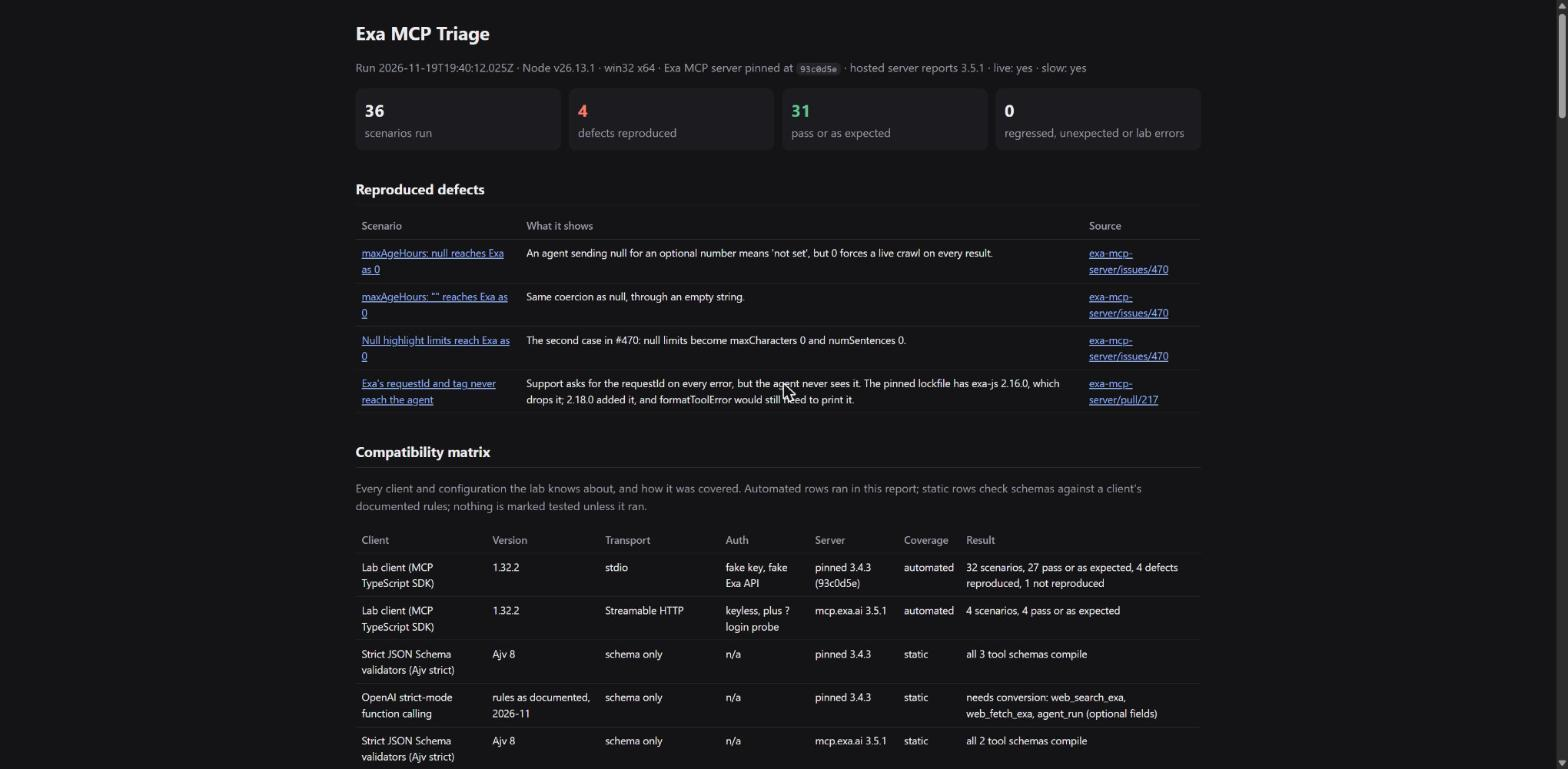
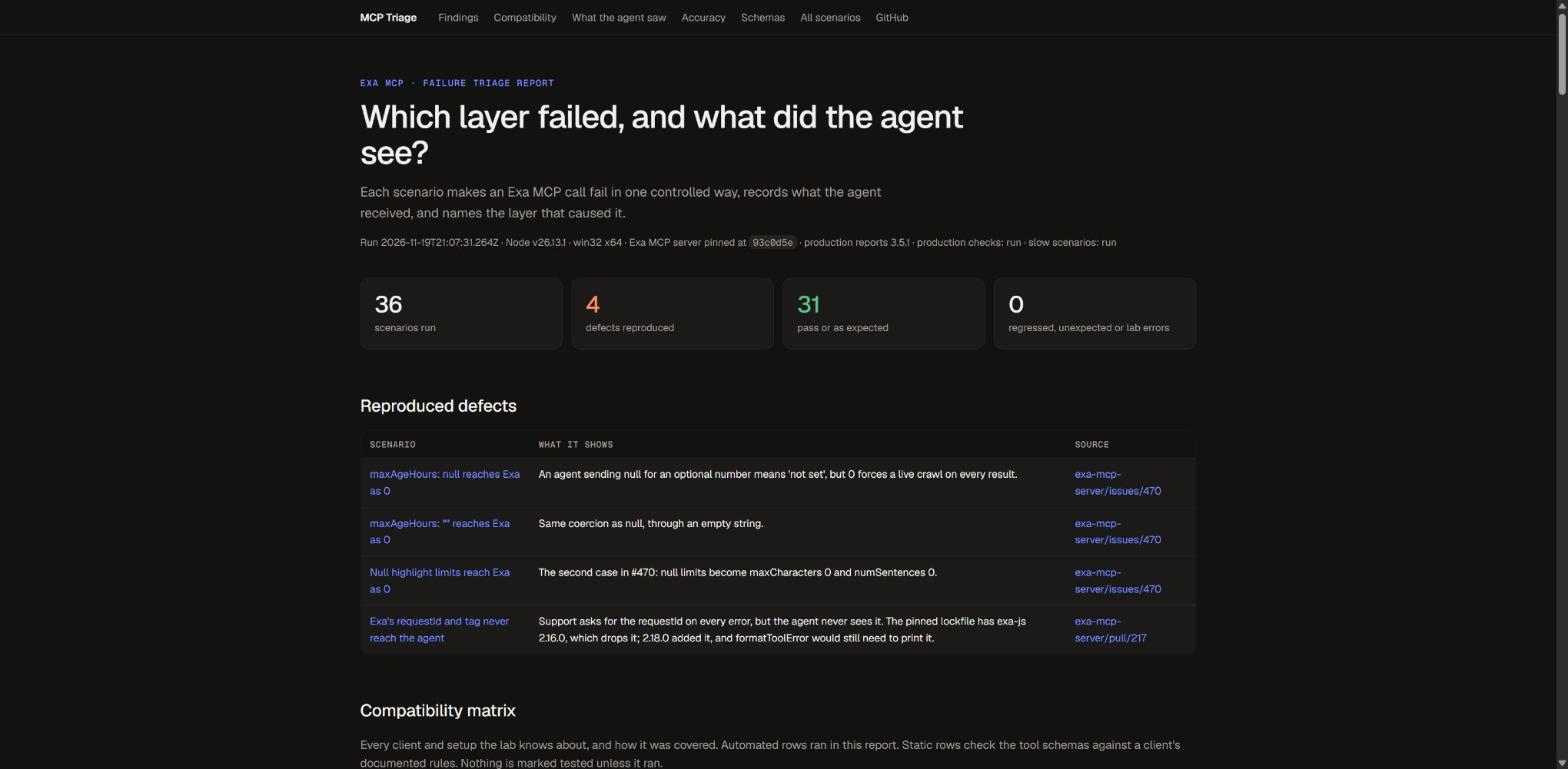
Restyle the report and publish it to GitHub Pages
Warm palette and Geist fonts in the style of exa.ai, a section nav, a clear independent-project note, and a CI job that deploys the offline report to GitHub Pages on every push to master.

diff --git a/src/report.ts b/src/report.ts
@@ -8,10 +8,24 @@ export function renderHtml(run: LabRun): string {
   return `<!doctype html>
 <html lang="en"><head><meta charset="utf-8"><meta name="viewport" content="width=device-width,initial-scale=1">
 <title>Exa MCP Triage report</title>
-<style>${STYLE}</style></head><body><main>
+<link rel="preconnect" href="https://fonts.googleapis.com"><link rel="preconnect" href="https://fonts.gstatic.com" crossorigin>
+<link href="https://fonts.googleapis.com/css2?family=Geist:wght@400;500;600&family=Geist+Mono:wght@400;500&display=swap" rel="stylesheet">
+<style>${STYLE}</style></head><body>
+<nav class="top"><div class="inner"><span class="brand">MCP Triage</span>${NAV.map(([id, label]) => `<a href="#${id}">${label}</a>`).join("")}<a href="https://github.com/NishthaNabya/exa-mcp-triage">GitHub</a></div></nav>
+<main>
 ${body}
+<footer>An independent project by Nishtha Nabya. Not affiliated with or endorsed by Exa. It tests Exa's open-source MCP server, pinned at a public commit.</footer>
 </main></body></html>`;
 }
+
+const NAV = [
+  ["defects", "Findings"],
+  ["matrix", "Compatibility"],
+  ["agent-saw", "What the agent saw"],
+  ["evaluation", "Accuracy"],
+  ["schemas", "Schemas"],
+  ["scenarios", "All scenarios"],
+];
 
 // ---- sections ----
 
@@ -20,8 +34,12 @@ function header(run: LabRun) {
   const m = run.meta;
   const surprises = r.filter(isSurprise).length;
   const reproduced = r.filter((x) => x.verdict === "reproduced").length;
-  return `<h1>Exa MCP Triage</h1>
-<p class="muted">Run ${esc(m.startedAt)} &middot; Node ${esc(m.node)} &middot; ${esc(m.platform)} &middot; Exa MCP server pinned at <code>${esc(m.pinnedCommit.slice(0, 7))}</code>${run.drift?.hostedVersion ? ` &middot; hosted server reports ${esc(run.drift.hostedVersion)}` : ""} &middot; live: ${m.options.live ? "yes" : "no"} &middot; slow: ${m.options.slow ? "yes" : "no"}</p>
+  return `<header class="hero">
+<p class="eyebrow">Exa MCP · failure triage report</p>
+<h1>Which layer failed, and what did the agent see?</h1>
+<p class="lede">Each scenario makes an Exa MCP call fail in one controlled way, records what the agent received, and names the layer that caused it.</p>
+<p class="meta">Run ${esc(m.startedAt)} &middot; Node ${esc(m.node)} &middot; ${esc(m.platform)} &middot; Exa MCP server pinned at <code>${esc(m.pinnedCommit.slice(0, 7))}</code>${run.drift?.hostedVersion ? ` &middot; production reports ${esc(run.drift.hostedVersion)}` : ""} &middot; production checks: ${m.options.live ? "run" : "not run"} &middot; slow scenarios: ${m.options.slow ? "run" : "not run"}</p>
+</header>
 <div class="cards">
 ${card(r.length, "scenarios run")}
 ${card(reproduced, "defects reproduced", reproduced ? "bad" : "")}
@@ -39,12 +57,12 @@ function defects(run: LabRun) {
   const attention = surprises.length
     ? `<h2 class="bad">Needs attention</h2>${table(["Scenario", "Verdict", "Why"], surprises.map((s) => [`<a href="#${esc(s.id)}">${esc(s.id)}</a>`, esc(s.verdict), esc(s.labError ?? s.checks.filter((c) => !c.pass).map((c) => c.name).join("; "))]))}`
     : "";
-  return `<h2>Reproduced defects</h2>${list}${attention}`;
+  return `<h2 id="defects">Reproduced defects</h2>${list}${attention}`;
 }
 
 function matrix(run: LabRun) {
   const rows = run.matrix.map((m) => [esc(m.client), esc(m.version), esc(m.transport), esc(m.auth), esc(m.server), `<span class="${m.coverage === "not run" ? "muted" : ""}">${esc(m.coverage)}</span>`, esc(m.result)]);
-  return `<h2>Compatibility matrix</h2>
+  return `<h2 id="matrix">Compatibility matrix</h2>
 <p class="muted">Every client and setup the lab knows about, and how it was covered. Automated rows ran in this report. Static rows check the tool schemas against a client's documented rules. Nothing is marked tested unless it ran.</p>
 ${wrap(table(["Client", "Version", "Transport", "Auth", "Server", "Coverage", "Result"], rows))}`;
 }
@@ -60,7 +78,7 @@ function agentSaw(run: LabRun) {
     diagnosisCell(c.diagnosis!.agentView, c.layer),
     diagnosisCell(c.diagnosis!.instrumented, c.layer),
   ]);
-  return `<h2>What the agent saw</h2>
+  return `<h2 id="agent-saw">What the agent saw</h2>
 <p class="muted">Each row is one failure the lab caused on purpose.</p>
 <ul class="muted">
 <li><b>Agent view</b>: what the lab concludes from the agent's text alone, which is what a ticket usually contains.</li>
@@ -76,7 +94,7 @@ function evaluation(run: LabRun) {
     .filter((s) => s.score.n)
     .map((s) => [esc(s.set), esc(s.mode), `${s.score.correct}/${s.score.n}`, pct(s.score.accuracy), String(s.score.wrong), String(s.score.abstained), String(s.score.falsePositives), String(s.score.falseNegatives)]);
   const repro = ev.reproducibility;
-  return `<h2>How often the diagnosis is right</h2>
+  return `<h2 id="evaluation">How often the diagnosis is right</h2>
 ${latestBlind ? `<div class="cards">${card(`${latestBlind.score.correct}/${latestBlind.score.n}`, `latest blind score (${latestBlind.set})`)}</div>` : ""}
 <ul class="muted">
 <li><b>Generated</b>: the failures above. The right answer is known because the lab caused them.</li>
@@ -98,7 +116,7 @@ function schemas(run: LabRun) {
     s.ajvStrict.length ? `<span class="bad">${esc(s.ajvStrict.join("; "))}</span>` : `<span class="good">compiles</span>`,
     s.openAiStrict.length ? esc(s.openAiStrict.join("; ")) : `<span class="good">meets the rules</span>`,
   ]);
-  return `<h2>Tool schemas</h2>
+  return `<h2 id="schemas">Tool schemas</h2>
 <p class="muted">Ajv strict: does the schema compile under a strict JSON Schema validator? OpenAI strict mode: the rules in OpenAI's Structured Outputs docs. Optional fields are a normal design choice; failing these rules means a strict client must convert the schema first, not that the schema is wrong.</p>
 ${wrap(table(["Tool", "Server", "Ajv strict", "OpenAI strict mode"], rows))}
 ${run.drift ? drift(run) : `<p class="muted">Production comparison not run. Use <code>--live</code>.</p>`}`;
@@ -124,7 +142,7 @@ function manual(run: LabRun) {
 }
 
 function allScenarios(run: LabRun) {
-  return `<h2>All scenarios</h2>${run.results.map(scenario).join("")}`;
+  return `<h2 id="scenarios">All scenarios</h2>${run.results.map(scenario).join("")}`;
 }
 
 function scenario(s: ScenarioResult) {
@@ -205,18 +223,42 @@ const VERDICT_CLASS: Record<ScenarioResult["verdict"], string> = {
   error: "bad",
 };
 
+// Palette taken from exa.ai (warm off-white, near-black ink, warm grey lines, blue accent).
+// Fonts: Geist and Geist Mono, open source. No Exa logo or wordmark.
 const STYLE = `
-:root{--bg:#fff;--fg:#1d1d1f;--muted:#6b6b70;--line:#e3e3e6;--card:#f7f7f8;--good:#1f7a4d;--bad:#b42318;--info:#365fae;--code:#f1f1f3}
-@media (prefers-color-scheme:dark){:root{--bg:#141416;--fg:#ececef;--muted:#9a9aa1;--line:#2c2c31;--card:#1c1c20;--good:#5cc28d;--bad:#ff7b6b;--info:#8fb0f5;--code:#232328}}
-body{margin:0;background:var(--bg);color:var(--fg);font:15px/1.55 system-ui,-apple-system,Segoe UI,sans-serif}
-main{max-width:1100px;margin:0 auto;padding:24px 16px 64px}
-h1{font-size:24px;margin:0 0 4px}h2{font-size:18px;margin:36px 0 10px;border-bottom:1px solid var(--line);padding-bottom:6px}
-.muted{color:var(--muted)}table{width:100%;border-collapse:collapse;font-size:13.5px}th,td{text-align:left;vertical-align:top;padding:7px 8px;border-bottom:1px solid var(--line)}
-th{color:var(--muted);font-weight:600}code,pre{font:12.5px/1.45 ui-monospace,Consolas,monospace;background:var(--code);border-radius:6px}
-code{padding:1px 5px}pre{padding:10px;overflow-x:auto;white-space:pre-wrap;word-break:break-word;margin:6px 0}
-ul{padding-left:20px}li{margin:3px 0}
-.tag{display:inline-block;padding:1px 8px;border-radius:999px;font-size:12px;border:1px solid currentColor}
+:root{--bg:#F2F1F0;--surface:#FAF9F8;--fg:#1D1C1A;--muted:#5F5A54;--line:#E2DFDA;--accent:#1F40ED;--good:#2E7D4F;--bad:#C2410C;--info:#1F40ED;--code:#EAE7E3;--nav:rgba(242,241,240,.85)}
+@media (prefers-color-scheme:dark){:root{--bg:#121211;--surface:#1B1A18;--fg:#F2F1F0;--muted:#A39E97;--line:#2E2C29;--accent:#7B8FFF;--good:#5CC28D;--bad:#FF8A5C;--info:#7B8FFF;--code:#24231F;--nav:rgba(18,18,17,.85)}}
+*{box-sizing:border-box}
+body{margin:0;background:var(--bg);color:var(--fg);font:15px/1.6 Geist,system-ui,-apple-system,Segoe UI,sans-serif;-webkit-font-smoothing:antialiased}
+a{color:var(--accent);text-decoration:none}a:hover{text-decoration:underline}
+nav.top{position:sticky;top:0;z-index:10;background:var(--nav);backdrop-filter:blur(10px);border-bottom:1px solid var(--line)}
+nav.top .inner{max-width:1120px;margin:0 auto;padding:12px 16px;display:flex;gap:20px;align-items:center;overflow-x:auto;white-space:nowrap;font-size:13.5px}
+nav.top a{color:var(--muted)}nav.top a:hover{color:var(--fg);text-decoration:none}
+nav.top .brand{font-weight:600;color:var(--fg);margin-right:8px}
+main{max-width:1120px;margin:0 auto;padding:0 16px 80px}
+.hero{padding:56px 0 24px}
+.eyebrow{font:500 12px/1 'Geist Mono',ui-monospace,monospace;text-transform:uppercase;letter-spacing:.08em;color:var(--accent);margin:0 0 14px}
+h1{font-size:clamp(28px,4vw,42px);line-height:1.12;font-weight:500;letter-spacing:-.02em;margin:0 0 14px;max-width:820px}
+.lede{font-size:17px;color:var(--muted);max-width:720px;margin:0 0 14px}
+.meta{font-size:13px;color:var(--muted);margin:0}
+h2{font-size:22px;font-weight:500;letter-spacing:-.01em;margin:56px 0 14px;scroll-margin-top:64px}
+h3{font-size:16px;font-weight:500;margin:28px 0 10px}
+.muted{color:var(--muted)}
+table{width:100%;border-collapse:collapse;font-size:13.5px;background:var(--surface);border:1px solid var(--line);border-radius:12px;overflow:hidden}
+th,td{text-align:left;vertical-align:top;padding:10px 12px;border-bottom:1px solid var(--line)}
+tr:last-child td{border-bottom:0}
+th{font:500 11.5px/1.3 'Geist Mono',ui-monospace,monospace;text-transform:uppercase;letter-spacing:.05em;color:var(--muted);background:var(--bg)}
+code,pre{font:12.5px/1.5 'Geist Mono',ui-monospace,Consolas,monospace;background:var(--code);border-radius:6px}
+code{padding:1px 5px}pre{padding:12px;overflow-x:auto;white-space:pre-wrap;word-break:break-word;margin:8px 0}
+ul{padding-left:20px}li{margin:4px 0}
+.tag{display:inline-block;padding:2px 9px;border-radius:999px;font:500 11.5px/1.5 'Geist Mono',ui-monospace,monospace;border:1px solid currentColor}
 .good{color:var(--good)}.bad{color:var(--bad)}.info{color:var(--info)}
-.cards{display:grid;grid-template-columns:repeat(auto-fit,minmax(160px,1fr));gap:10px;margin:8px 0}.card{background:var(--card);border-radius:10px;padding:12px}
-.card b{font-size:22px;display:block}details{border:1px solid var(--line);border-radius:10px;margin:8px 0;padding:8px 12px}
-summary{cursor:pointer}summary .tag{margin-left:6px}.wrap{overflow-x:auto}a{color:var(--info)}`;
+.cards{display:grid;grid-template-columns:repeat(auto-fit,minmax(180px,1fr));gap:12px;margin:12px 0}
+.card{background:var(--surface);border:1px solid var(--line);border-radius:12px;padding:16px 18px}
+.card b{font-size:30px;font-weight:500;letter-spacing:-.02em;display:block;line-height:1.2}
+.card span{font-size:13px}
+details{background:var(--surface);border:1px solid var(--line);border-radius:12px;margin:10px 0;padding:12px 16px}
+details details{background:var(--bg)}
+summary{cursor:pointer}summary .tag{margin-left:6px}
+.wrap{overflow-x:auto}
+footer{margin-top:72px;padding-top:20px;border-top:1px solid var(--line);font-size:13px;color:var(--muted)}`;

diff --git a/README.md b/README.md
@@ -15,6 +15,8 @@ The hard part is that the error can change as it travels back through those laye
 
 It does this against Exa's real MCP server code, not a copy, using a small local stand-in for Exa's API that fails on cue. It costs nothing to run and needs no API key.
 
+Live report, rebuilt by CI on every push: https://nishthanabya.github.io/exa-mcp-triage/ (offline run; production checks are run locally, see below).
+
 ![Report summary](docs/images/report-summary.jpg)
 
 ## One failure, start to finish
